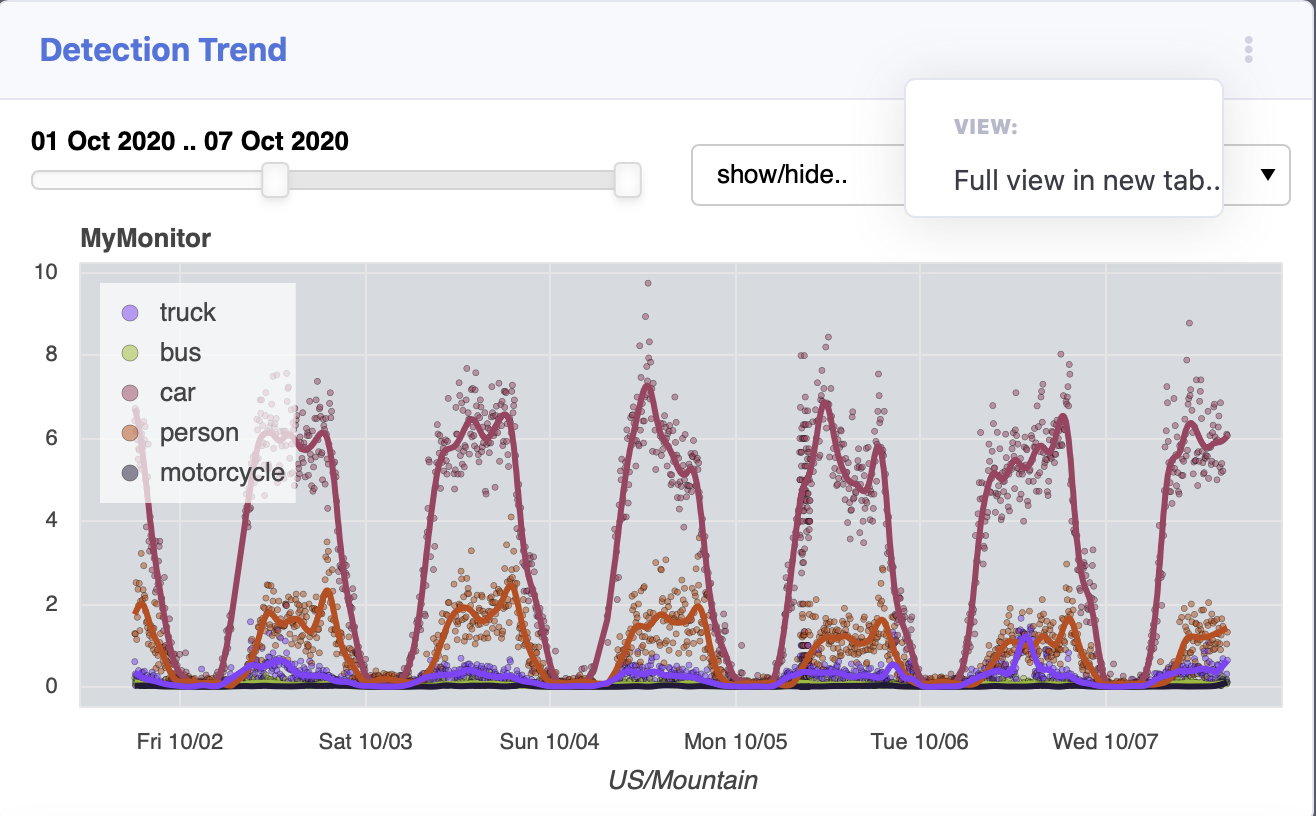
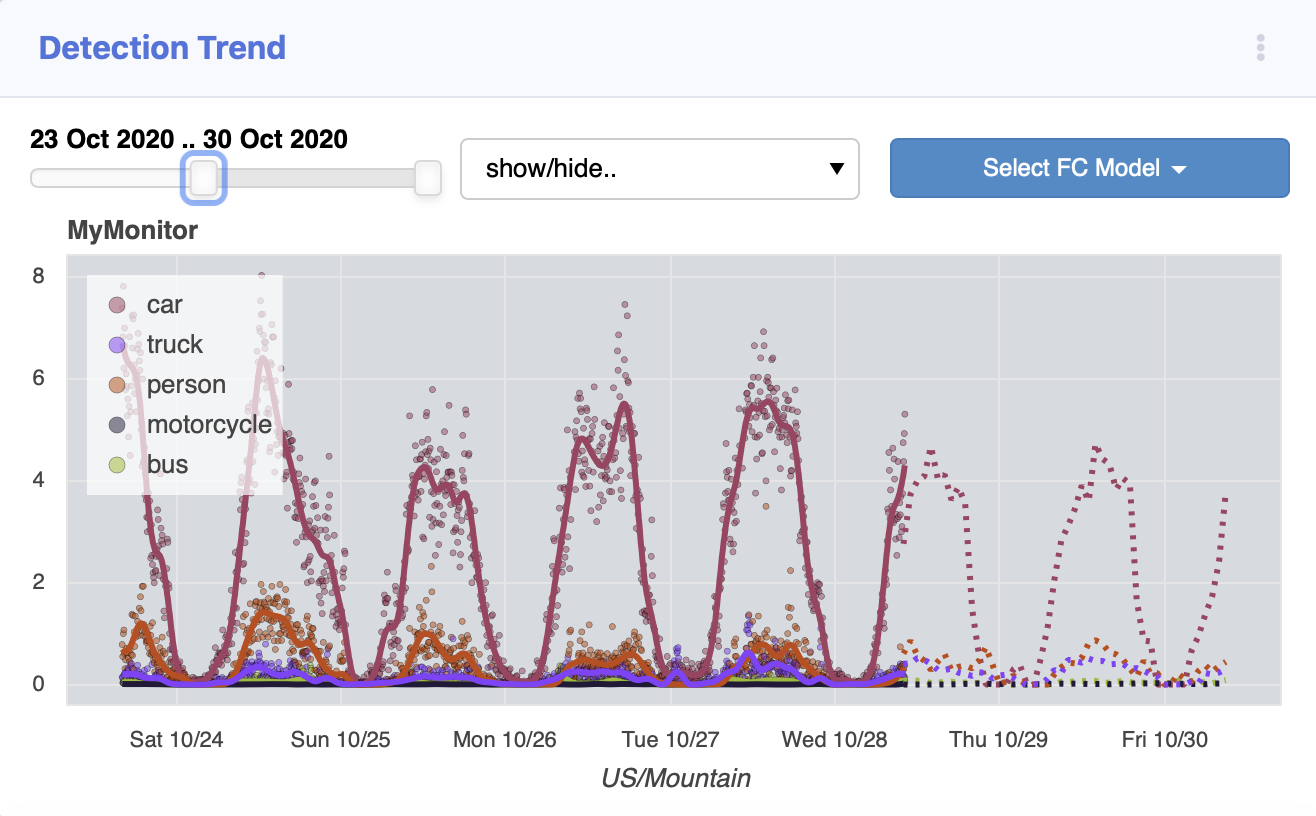
prepared services to all run in containers

diff --git a/services/charting_service/monitor_chart.py b/services/charting_service/monitor_chart.py
@@ -19,7 +19,6 @@ import os
 import numpy as np
 import pandas as pd
 from time import sleep
-import subprocess
 
 from bokeh.io import curdoc
 from bokeh.models import HoverTool, DatetimeTickFormatter
@@ -32,9 +31,9 @@ from bokeh.layouts import column, row
 
 logging.basicConfig(level=logging.INFO)
 
-DATA_URL = os.getenv('DATA_URL', '127.0.0.1')
-DATA_PORT = os.getenv('DATA_PORT', '8000')
-FC_URL = os.getenv('FC_URL', '127.0.0.1')
+APP_HOST = os.getenv('APP_HOST', '127.0.0.1')
+APP_PORT = os.getenv('APP_PORT', '8000')
+FC_HOST = os.getenv('FC_HOST', '127.0.0.1')
 FC_PORT = os.getenv('FC_PORT', '8200')
 
 
@@ -47,7 +46,7 @@ def _get_logdata(monitor_name, start_date_utc=None, start_date_utc_gt=None):
     if start_date_utc is None:
         start_date_utc = '1970-01-01T00:00:00.000000'
     response = requests.get(
-        f'http://{DATA_URL}:{DATA_PORT}/get_logdata_bokeh?monitor_name={monitor_name}&{start_field}={start_date_utc}')
+        f'http://{APP_HOST}:{APP_PORT}/get_logdata_bokeh?monitor_name={monitor_name}&{start_field}={start_date_utc}')
     if response.status_code == 200:
         return json.loads(response.text)
     else:
@@ -179,7 +178,7 @@ class MonitorConfig:
         self.time_zone = tz
 
     def _get_config(self):
-        response = requests.get(f'http://{DATA_URL}:{DATA_PORT}/get_monitor?monitor_name={self.name}')
+        response = requests.get(f'http://{APP_HOST}:{APP_PORT}/get_monitor?monitor_name={self.name}')
         if response.status_code == 200:
             return json.loads(response.text)
         else:
@@ -195,7 +194,7 @@ class ClassColors:
 
     def _get_colors(self):
         colors = json.loads(requests.get(
-            f'http://{DATA_URL}:{DATA_PORT}/get_monitor?monitor_name={self.monitor_name}&field=class_colors').text)[
+            f'http://{APP_HOST}:{APP_PORT}/get_monitor?monitor_name={self.monitor_name}&field=class_colors').text)[
             'class_colors']
         colors = {k: RGB(*c) for k, c in colors.items()}
 
@@ -214,7 +213,7 @@ class ForecastGenerator:
         self.source_data_from_date = arg_dict.get('fc_source_data_from_date', None)
 
     def retrain_all(self):
-        url = f'http://{FC_URL}:{FC_PORT}/retrain_all?monitor_name={self.monitor_name}'
+        url = f'http://{FC_HOST}:{FC_PORT}/retrain_all?monitor_name={self.monitor_name}'
 
     def _get_fcdata(self, interval=None, hours_in_training=None, hours_in_prediction=None,
                     source_data_from_date=None):
@@ -224,7 +223,7 @@ class ForecastGenerator:
                       'hours_in_prediction': hours_in_prediction,
                       # 'source_data_from_date': source_data_from_date
                       }
-        url = f'http://{FC_URL}:{FC_PORT}/predict?monitor_name={self.monitor_name}'
+        url = f'http://{FC_HOST}:{FC_PORT}/predict?monitor_name={self.monitor_name}'
 
         for p, v in url_params.items():
             if v is not None:
@@ -238,7 +237,7 @@ class ForecastGenerator:
             return []
 
     def get_models(self):
-        url = f'http://{FC_URL}:{FC_PORT}/get_available_models?monitor_name={self.monitor_name}'
+        url = f'http://{FC_HOST}:{FC_PORT}/get_available_models?monitor_name={self.monitor_name}'
         response = requests.get(url)
         if response.status_code == 200:
             return json.loads(response.text)
@@ -247,7 +246,7 @@ class ForecastGenerator:
             return {}
 
     def get_model(self, filename):
-        url = f'http://{FC_URL}:{FC_PORT}/get_model?filename={filename}'
+        url = f'http://{FC_HOST}:{FC_PORT}/get_model?filename={filename}'
         response = requests.get(url)
         if response.status_code == 200:
             return json.loads(response.text)
@@ -538,12 +537,13 @@ def retrain_daily():
     """ Sets a callback that will retrain all models at midnight local time """
     global CB_ID
     tinfo = requests.get("https://ipapi.co/json/").json()
-    if tinfo.get('timezone', None) is None:
+    logging.info(tinfo)
+    if tinfo.get('timezone', None) is not None:
         tz = tinfo['timezone']
-        local_time = datetime.now(tz=pytz.timezone(tz.decode()))
+        local_time = datetime.now(tz=pytz.timezone(tz))
         tmrw = (local_time + timedelta(days=1)).date()
-        midnight = datetime(year=tmrw.year, month=tmrw.month, day=tmrw.day).replace(tzinfo=pytz.timezone(tz.decode()))
-        secs_to_midnight = midnight - local_time
+        midnight = datetime(year=tmrw.year, month=tmrw.month, day=tmrw.day).replace(tzinfo=pytz.timezone(tz))
+        secs_to_midnight = (midnight - local_time).seconds
         if CB_ID is not None:
             curdoc().remove_timeout_callback(CB_ID)
             fc_generator.retrain_all()

diff --git a/traffic_monitor/services/videodetection_service.py b/traffic_monitor/services/videodetection_service.py
@@ -24,6 +24,7 @@ import json
 import time
 import requests
 import threading
+import os
 
 import numpy as np
 from PIL import Image
@@ -39,6 +40,11 @@ from traffic_monitor.websocket_channels import VideoChannel
 from traffic_monitor.websocket_channels_factory import ChannelFactory
 
 BUFFER_SIZE = 512
+KAFKA_HOST = os.getenv('KAFKA_HOST', '0.0.0.0')
+KAFKA_PORT = os.getenv('KAFKA_PORT', 9092)
+KAFKA_GROUPID = os.getenv('KAFKA_GROUPID', 'monitorgroup')
+APP_HOST = os.getenv('APP_HOST', '0.0.0.0')
+APP_PORT = os.getenv('APP_PORT', 8000)
 
 logger = logging.getLogger('videodetection_service')
 
@@ -57,19 +63,20 @@ class VideoDetectionService(ServiceAbstract, ABC):
     this class so composition is used instead.
 
     """
-
     def __init__(self,
                  monitor_config: dict,
                  output_data_topic: str,  # Kafka topic to produce data to
                  ):
         """ Requires existing monitor.  1:1 relationship with a monitor but this is not
         enforced when creating the Monitor Service. """
+        global KAFKA_HOST, KAFKA_PORT, KAFKA_GROUPID
+
         ServiceAbstract.__init__(self, monitor_config=monitor_config, output_data_topic=output_data_topic)
         self.monitor_name: str = monitor_config.get('monitor_name')
         self.name = f"VideoDetectionService-{self.monitor_name}"
         self.channel_url = f"/ws/traffic_monitor/video/{monitor_config.get('monitor_name')}/"  # websocket channel address
-        self.producer = Producer({'bootstrap.servers': '127.0.0.1:9092',
-                                  'group.id': 'monitorgroup'})
+        self.producer = Producer({'bootstrap.servers': f'{KAFKA_HOST}:{KAFKA_PORT}',
+                                  'group.id': KAFKA_GROUPID})
         self.raw_queue: queue.Queue = queue.Queue(maxsize=50)
         self.detector_ready = False
         self.detector: DetectorAbstract = DetectorFactory().get_detector(monitor_config=self.monitor_config)
@@ -184,7 +191,7 @@ class VideoDetectionService(ServiceAbstract, ABC):
     def _reset_stream(self) -> cv.VideoCapture:
         logger.error(f"CV Video Capture Failed to read image. Resetting stream.")
         response = requests.get(
-            'http://127.0.0.1:8000/get_monitor?monitor_name=MyMonitor&field=feed_url')
+            f'http://{APP_HOST}:{APP_PORT}/get_monitor?monitor_name=MyMonitor&field=feed_url')
         if response.status_code == 200:
             feed_url = json.loads(response.text)['feed_url']
             self.monitor_config['feed_url'] = feed_url

diff --git a/traffic_monitor/services/monitor_service.py b/traffic_monitor/services/monitor_service.py
@@ -9,7 +9,7 @@ import logging
 import threading
 import json
 import time
-import numpy as np
+import os
 
 from confluent_kafka.admin import AdminClient, NewTopic, KafkaException
 from confluent_kafka import Consumer, TopicPartition, OFFSET_END, Producer
@@ -31,6 +31,10 @@ SERVICES = {
     'notifications_on': NotificationService,
     # 'charting_on': ChartService,
 }
+
+KAFKA_HOST = os.getenv('KAFKA_HOST', '0.0.0.0')
+KAFKA_PORT = os.getenv('KAFKA_PORT', 9092)
+KAFKA_GROUPID = os.getenv('KAFKA_GROUPID', 'monitorgroup')
 
 
 class MonitorService(threading.Thread):
@@ -92,8 +96,8 @@ class MonitorService(threading.Thread):
         # This topic is used by the sub-services of this monitor
         # to communicate with each other.
         # https://github.com/confluentinc/confluent-kafka-python
-        a = AdminClient({'bootstrap.servers': '127.0.0.1:9092',
-                         'group.id': 'monitorgroup'})
+        a = AdminClient({'bootstrap.servers': f'{KAFKA_HOST}:{KAFKA_PORT}',
+                         'group.id': KAFKA_GROUPID})
         topic = NewTopic(self.monitor_name, num_partitions=3, replication_factor=1)
 
         # Call create_topics to asynchronously create topics. {topic,future} is returned.
@@ -111,8 +115,8 @@ class MonitorService(threading.Thread):
 
         # Kafka settings
         self.consumer = Consumer({
-            'bootstrap.servers': '127.0.0.1:9092',
-            'group.id': 'monitorgroup',
+            'bootstrap.servers': f'{KAFKA_HOST}:{KAFKA_PORT}',
+            'group.id': {KAFKA_GROUPID},
             'auto.offset.reset': 'earliest'
         })
         self.consumer.subscribe(topics=[self.monitor_config.get('monitor_name')], on_revoke=self._on_revoke)

diff --git a/traffic_monitor/services/service_abstract.py b/traffic_monitor/services/service_abstract.py
@@ -1,12 +1,16 @@
 import threading
 import logging
 import json
+import os
 from abc import ABCMeta, abstractmethod
 
 from confluent_kafka import Consumer, TopicPartition, OFFSET_END
 
 logger = logging.getLogger('service')
 
+KAFKA_HOST = os.getenv('KAFKA_HOST', '0.0.0.0')
+KAFKA_PORT = os.getenv('KAFKA_PORT', 9092)
+KAFKA_GROUPID = os.getenv('KAFKA_GROUPID', 'monitorgroup')
 
 class ServiceAbstract(threading.Thread, metaclass=ABCMeta):
     """
@@ -29,6 +33,7 @@ class ServiceAbstract(threading.Thread, metaclass=ABCMeta):
         :param monitor_config: The monitor's configuration dictionary which is retrieved via MonitorFactory().get_monitor_configuration(<monitor_name>).
         :param output_data_topic: If the implementation of the abstract class produces data, this is the topic name that will be used.
         """
+        global KAFKA_HOST, KAFKA_PORT, KAFKA_GROUPID
         threading.Thread.__init__(self)
         self.monitor_config = monitor_config
         self.output_data_topic = output_data_topic
@@ -38,8 +43,8 @@ class ServiceAbstract(threading.Thread, metaclass=ABCMeta):
 
         # Kafka settings
         self.consumer = Consumer({
-            'bootstrap.servers': '127.0.0.1:9092',
-            'group.id': 'monitorgroup',
+            'bootstrap.servers': f'{KAFKA_HOST}:{KAFKA_PORT}',
+            'group.id': KAFKA_GROUPID,
             'auto.offset.reset': 'earliest'
         })
         self.consumer.subscribe(topics=[self.monitor_config.get('monitor_name')], on_revoke=self._on_revoke)

diff --git a/traffic_monitor/models/monitor_factory.py b/traffic_monitor/models/monitor_factory.py
@@ -1,6 +1,7 @@
 import logging
 import json
 import datetime
+import os
 
 from confluent_kafka import Producer
 from django.db.models import Min, Max, Count
@@ -13,8 +14,13 @@ from traffic_monitor.websocket_channels_factory import ChannelFactory
 
 logger = logging.getLogger('monitor_factory')
 
+KAFKA_HOST = os.getenv('KAFKA_HOST', '0.0.0.0')
+KAFKA_PORT = os.getenv('KAFKA_PORT', 9092)
+KAFKA_GROUPID = os.getenv('KAFKA_GROUPID', 'monitorgroup')
+
 
 class MonitorFactory:
+    global KAFKA_HOST, KAFKA_PORT
     singleton = None
 
     def __new__(cls):
@@ -24,8 +30,8 @@ class MonitorFactory:
 
     class _Singleton:
         def __init__(self):
-            self.producer = Producer({'bootstrap.servers': '127.0.0.1:9092',
-                                      'group.id': 'monitorgroup'})
+            self.producer = Producer({'bootstrap.servers': f'{KAFKA_HOST}:{KAFKA_PORT}',
+                                      'group.id': KAFKA_GROUPID})
 
         @staticmethod
         def create_feed(cam: str, time_zone: str, description: str) -> dict:

diff --git a/traffic_monitor/views/views.py b/traffic_monitor/views/views.py
@@ -66,8 +66,8 @@ def index_view(request):
     monitor_name = kwargs.get('monitor_name')
     kwargs.update({'CHART_HOST': os.getenv('CHART_HOST')})
     kwargs.update({'CHART_PORT': os.getenv('CHART_PORT')})
-    kwargs.update({'FC_HOST': os.getenv('FC_HOST')})
-    kwargs.update({'FC_PORT': os.getenv('FC_PORT')})
+    # kwargs.update({'FC_HOST': os.getenv('FC_HOST')})
+    # kwargs.update({'FC_PORT': os.getenv('FC_PORT')})
     kwargs.update({'CHART_SCRIPT': _get_chart_components(request)})
 
     print(kwargs)

diff --git a/traffic_monitor/management/commands/create_env.py b/traffic_monitor/management/commands/create_env.py
@@ -59,6 +59,11 @@ class Command(BaseCommand):
         django_secret_key = django_secret_key.replace("'", "").replace("\"", "")
         f.write(f"export DJANGO_SECRET_KEY = '{django_secret_key}'\n")
 
+        f.write(f"export CHART_HOST=0.0.0.0\n\n")
+        f.write(f"export CHART_PORT=8100\n\n")
+        f.write(f"export FC_HOST=0.0.0.0\n\n")
+        f.write(f"export FC_PORT=8200\n\n")
+
         f.close()
 
 

diff --git a/monitor/settings.py b/monitor/settings.py
@@ -43,7 +43,8 @@ ALLOWED_HOSTS = ['*']
 
 # CORS_ALLOW_ALL_ORIGINS = True
 CORS_ALLOWED_ORIGINS = [
-    "http://127.0.0.1:8100", "http://127.0.0.1:8000"
+    "http://127.0.0.1:8100", "http://127.0.0.1:8000",
+    "http://0.0.0.0:8100", "http://0.0.0.0:8000",
 ]
 
 # Application definition

diff --git a/services/forecasting_service/forecasting_service/settings.py b/services/forecasting_service/forecasting_service/settings.py
@@ -32,7 +32,8 @@ DEBUG = True
 ALLOWED_HOSTS = ['*']
 
 CORS_ALLOWED_ORIGINS = [
-    "http://127.0.0.1:8100", "http://127.0.0.1:8000"
+    "http://127.0.0.1:8100", "http://127.0.0.1:8000",
+    "http://0.0.0.0:8100", "http://0.0.0.0:8000", "http://charting_service:8100"
 ]
 
 

diff --git a/traffic_monitor/services/log_service.py b/traffic_monitor/services/log_service.py
@@ -7,7 +7,6 @@ time interval and save the entries to database.
 import logging
 import json
 import datetime
-import pytz
 from abc import ABC
 
 from django.core.serializers.json import DjangoJSONEncoder

diff --git a/README.rst b/README.rst
@@ -1,11 +1,13 @@
 Traffic Monitor
 ===============
 
-Project documentaton is available in a navigable format with API reference details at the project's Git Project Page: http://mcdomx.github.io/monitor/.
+Project documentation is available in a navigable format with API reference details at the project's Git Project Page: http://mcdomx.github.io/monitor/.
 
 The Traffic Monitor application will detect objects in a video feed and log, report and chart instances of objects that are recognized.  A variety of objects can be selected for tracking as well as the source of the video stream.
 
 Although the application has been designed to accommodate custom object detection algorithms, a single OpenCV implementation of object detection is used with the default dataset of trained COCO objects.
+
+The application will forecast rates of detection based on historical data tracked in the application's database.  Models are retrained daily and the model used to present forecasts can be changed by the user.
 
 .. figure:: images/all_services.png
   :figwidth: 600
@@ -91,7 +93,7 @@ Chart Tile
   :figwidth: 300
   :alt: Chart
 
-  **Chart**: At each log interval the chart is updated.  The popup menu can be used to open a new tab with a larger chart and larger time range.  The range of dates displayed can be adjusted with the slider and the charted objects can be toggled with the drop down menu.
+  **Chart**: At each log interval the chart is updated.  The popup menu can be used to open a new tab with a larger chart and larger time range.  The range of dates displayed can be adjusted with the slider and the charted objects can be toggled with the drop down menu.  Forecasts can be made using trained models available in the drop down button.
 
 Logging Tile
 ^^^^^^^^^^^^
@@ -216,18 +218,23 @@ The variables defined in the ``.env`` file will be included in the environment a
     local_variable_name = os.getenv("<env_varibale_name>", "<default_if_not_found")
 
 
-Database, Messaging and Charting Services
+Database, Messaging, Charting and Forecasting Services
 -----------------------------------------
 
 The application relies on a Postgres database as well as Kafka for messaging. Postgres is used as the database because the default SQLite database used by Django does not allow concurrent read/write requests which can happen in this application.
 
 Charting is supported in a docker container that runs a Bokeh server.  The web front-end is designed to communicate with the REST-based urls that return an interactive chart of the monitor's data.  Chart data will dynamically be updated while the detector is running.
 
+Forecasting is also a Dockerized application that runs along with the database and the charting service.  Values for forecasting are retrieved from the database and the forecasted data is retrieved by the charting service to plot the forecasts.
+
 All of these services are configured to run in docker containers in this application.  To start the Docker containers, run the following from the project’s ``infrastructure`` directory:
 
 ::
 
     docker-compose up
+    docker-compose -f docker-compose-charting.yml up
+
+The first compose file will start the database and communications servives.  The second file will launch the charting and forecasting services.
 
 Any data stored in these services will persist locally and will be available the next time that you start the containers from the same machine.
 
@@ -275,7 +282,7 @@ Changes to the Postgres or Kafka services can be made by updating the docker-com
 
 Start Application
 -----------------
-Once the docker containers running Zookepper, Kafka and Postgres are running, the application can be started via:
+Although the supporting services are dockerized, the application that combines the services is not (yet).  After starting the service containers using their docker-compose files, the main Django  application can be started:
 
 ::
 

diff --git a/services/forecasting_service/readme.rst b/services/forecasting_service/readme.rst
@@ -4,9 +4,13 @@ FORECASTING SERVICE
 This application will read actual data from the database and generate
 a forecast for traffic rates in the future.
 
-The application is intended to be run as an individual docker container
+The application can be run as an individual docker container
 and can be launched using the docker-compose file included in the project's
 root directory.
+
+This service is designed to work with the charting service to provide plots with forecasted values.
+
+This service provides an API accessible via URL calls that can train new models, get a list of available models, or run predictions based on existing models.  Calls to predict values are flexible so that the service picks the best-scoring model to predict based on the model selection parameters provided.
 
 This service will use the postgres database Docker container used in the
 monitor application. The docker-compose file will achieve this by
@@ -18,6 +22,6 @@ provide ORM references to the application's database which are read-only.
 https://docs.djangoproject.com/en/3.1/howto/legacy-databases/
 To generate the models.py file, call ``python manage.py inspectdb > models.py``
 from the application that is already using the database.  The resulting models.py
-file will include definitions for all of the database's tables.
+file will include definitions for all of the database's tables and can be used in this forecasting application.
 
 
